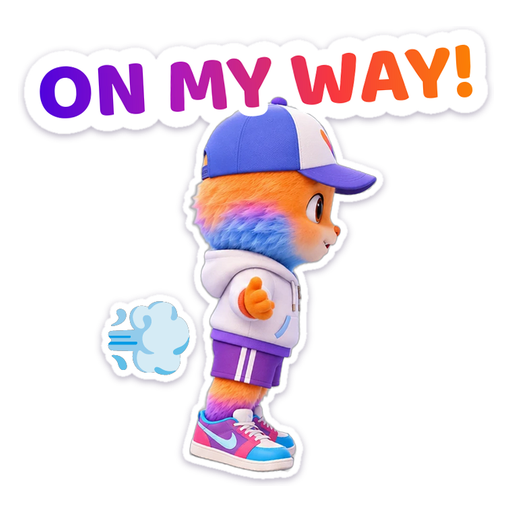
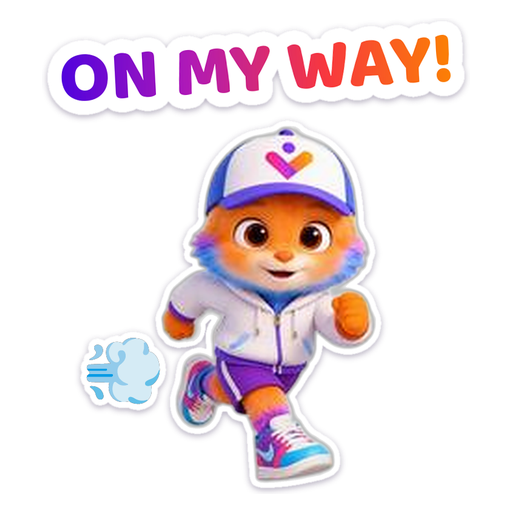
Rebuild sticker pack around new Acti poses
Laughing, thinking, waving, running and jumping poses (generated in
Canva from the Acti reference) replace the repeated arms-out pose. Each
of the 11 stickers now has its own pose; the rest wait on new poses
listed in poses/PROMPTS.md. tools/cut_poses.py cuts out new poses and
prefers full-size files over the current small previews.

Claude-Session: https://claude.ai/code/session_01L3N5nvGbZ4dARdWvKLXCxr

Changed region(s): [[0.0312, 0.0625, 0.9688, 0.9688], [0.9375, 0.1875, 0.9688, 0.2188]]

diff --git a/tools/make_stickers.py b/tools/make_stickers.py
@@ -213,18 +213,21 @@ EMOJI_TAGS = {
 
 
 def build():
+    """Each sticker uses a different pose. Stickers waiting on new poses are listed in poses/PROMPTS.md."""
     s = []
-    s.append(caption_top('yalla', 'YALLA!', 'يلا!', props=[('🔥', 110, 680, 360, -12)]))
-    s.append(caption_top('lets_go', "LET'S GO!", pose='threequarter', tilt=-6,
-                         props=[('⚡', 120, 220, 380, 12), ('⚡', 100, 680, 420, -10)]))
-    s.append(caption_top('whos_in', "WHO'S IN?", pose='front2', props=[('🙋', 120, 680, 400, -8)]))
+    s.append(caption_top('lol', 'LOL', pose='pose_lol', h=600, en_size=150, text_tilt=-4,
+                         props=[('😂', 120, 700, 330, -12)]))
+    s.append(caption_top('hmm', 'HMM…', pose='pose_hmm', h=600, en_size=140, props=[('🤔', 110, 700, 330, 8)]))
+    s.append(caption_top('hi', 'HI!', 'مرحبا', pose='pose_wave', h=580, en_size=150))
 
-    # On my way: side view running, speed lines
     b = Board()
-    b.put(character('side', 560, flip=True), 470, 520, rotate=-8)
-    b.put(emoji('💨', 150), 290, 600, 0)
-    b.put(text_layer('ON MY WAY!', 120, max_w=820), 450, 220, 3)
+    b.put(character('pose_run', 590), 470, 530)
+    b.put(emoji('💨', 150), 230, 640, 0)
+    b.put(text_layer('ON MY WAY!', 120, max_w=820), 450, 140, 3)
     s.append(('on_my_way', finish(b.img), emojis_for('on_my_way')))
+
+    s.append(caption_top('mabrook', 'MABROOK!', 'مبروك', pose='pose_jump', h=560, en_size=120,
+                         props=[('🎉', 120, 200, 420, -15), ('🎊', 110, 700, 430, 12)]))
 
     b = Board()
     b.put(character('back', 560), 450, 520)
@@ -232,36 +235,12 @@ def build():
     b.put(text_layer('BYE BYE!', 130), 450, 140, -3)
     s.append(('bye', finish(b.img), emojis_for('bye')))
 
-    # Hi: face peeking up from the bottom with a speech bubble
+    # Psst: face peeking with a speech bubble
     b = Board()
     b.put(face_badge(560), 450, 560)
-    b.put(label('HI!', 120, bg=PURPLE), 680, 220, 8)
-    b.put(emoji('👋', 130), 230, 250, 15)
-    s.append(('hi', finish(b.img), emojis_for('hi')))
-
-    s.append(caption_top('shukran', 'SHUKRAN!', 'شكراً', pose='front2', props=[('🧡', 110, 680, 380, 10)], en_size=120))
-    s.append(caption_top('mabrook', 'MABROOK!', 'مبروك', props=[('🎉', 120, 220, 360, -15), ('🎊', 110, 680, 380, 12)], en_size=120))
-    s.append(caption_top('good_morning', 'GOOD MORNING!', 'صباح الخير', pose='threequarter',
-                         props=[('☀', 120, 680, 360, 0)], en_size=100))
-    s.append(caption_top('game_on', 'GAME ON!', pose='front2', props=[('⚽', 120, 680, 700, 0), ('🏀', 100, 220, 700, 0)]))
-    s.append(caption_top('activated', 'ACTIVATED!', pose='front', props=[('⚡', 130, 220, 400, 15), ('⚡', 130, 680, 400, -15)], en_size=115))
-
-    # Save the date
-    b = Board()
-    b.put(character('front2', 520), 450, 560)
-    b.put(text_layer('SEE YOU THERE!', 100, max_w=820), 450, 130, 3)
-    b.put(label('16–17 JAN 2027', 62, bg=ORANGE), 450, 230, -3)
-    b.put(emoji('📅', 110), 680, 420, -10)
-    s.append(('save_the_date', finish(b.img), emojis_for('save_the_date')))
-
-    s.append(caption_top('habibi', 'HABIBI, COME!', 'حبيبي تعال', pose='threequarter', en_size=105,
-                         props=[('🤗', 110, 680, 420, 0)]))
-
-    b = Board()
-    b.put(character('side', 560), 470, 520)
-    b.put(emoji('🤔', 120), 300, 340, 0)
-    b.put(text_layer('HMM…', 130), 450, 140, -3)
-    s.append(('hmm', finish(b.img), emojis_for('hmm')))
+    b.put(label('PSST…', 100, bg=PURPLE), 650, 220, 8)
+    b.put(emoji('👀', 120), 230, 250, 10)
+    s.append(('psst', finish(b.img), ['👀', '🤫']))
 
     b = Board()
     b.put(face_badge(520), 450, 520)
@@ -270,8 +249,16 @@ def build():
     b.put(text_layer('LOVE IT!', 125), 450, 820, -3)
     s.append(('love_it', finish(b.img), emojis_for('love_it')))
 
-    s.append(caption_top('lol', 'LOL', pose='front', props=[('😂', 120, 680, 380, -10), ('😂', 90, 220, 420, 10)], en_size=150))
-    s.append(caption_top('weekend', 'WEEKEND PLANS?', pose='threequarter', en_size=95, props=[('🤸', 110, 680, 420, 0)]))
+    # Acti's open arms read as a welcome
+    s.append(caption_top('habibi', 'HABIBI, COME!', 'حبيبي تعال', pose='front', en_size=105,
+                         props=[('🤗', 110, 680, 420, 0)]))
+
+    b = Board()
+    b.put(character('threequarter', 520), 450, 560)
+    b.put(text_layer('SEE YOU THERE!', 100, max_w=820), 450, 130, 3)
+    b.put(label('16–17 JAN 2027', 62, bg=ORANGE), 450, 230, -3)
+    b.put(emoji('📅', 110), 680, 440, -10)
+    s.append(('save_the_date', finish(b.img), emojis_for('save_the_date')))
 
     # Brand sticker: logo + name
     b = Board()
@@ -297,8 +284,10 @@ def save_webp(img, path):
 
 
 def main():
-    (OUT / 'whatsapp').mkdir(parents=True, exist_ok=True)
-    (OUT / 'png').mkdir(parents=True, exist_ok=True)
+    for sub in ('whatsapp', 'png'):
+        (OUT / sub).mkdir(parents=True, exist_ok=True)
+        for old in (OUT / sub).glob('[0-9][0-9]_*'):
+            old.unlink()
     stickers = build()
     entries = []
     for i, (name, img, tags) in enumerate(stickers, 1):

diff --git a/tools/cut_poses.py b/tools/cut_poses.py
@@ -1,0 +1,54 @@
+"""Cuts the background off the generated Acti poses.
+
+    pip install rembg onnxruntime
+    python3 tools/cut_poses.py
+
+For each pose it uses the full-size file in poses/ (e.g. poses/lol.png or .jpg) when there is
+one, otherwise the small Canva preview in poses/preview/. Writes source/pose_<name>.png.
+"""
+
+from pathlib import Path
+
+import numpy as np
+from PIL import Image, ImageFilter
+from rembg import new_session, remove
+from scipy import ndimage as nd
+
+ROOT = Path(__file__).resolve().parent.parent
+POSES = ['lol', 'hmm', 'wave', 'run', 'jump']
+MIN_HEIGHT = 1200  # small previews are upscaled to this before cutting, for a smoother edge
+
+
+def find(name):
+    for ext in ('png', 'jpg', 'jpeg', 'webp'):
+        p = ROOT / 'poses' / f'{name}.{ext}'
+        if p.exists():
+            return p, False
+    return ROOT / 'poses' / 'preview' / f'{name}.jpg', True
+
+
+def main():
+    session = new_session('isnet-general-use')
+    for name in POSES:
+        path, is_preview = find(name)
+        img = Image.open(path).convert('RGB')
+        if img.height < MIN_HEIGHT:
+            k = MIN_HEIGHT / img.height
+            img = img.resize((round(img.width * k), MIN_HEIGHT), Image.LANCZOS)
+            img = img.filter(ImageFilter.UnsharpMask(radius=2, percent=60, threshold=2))
+        cut = remove(img, session=session)
+        a = np.array(cut)
+        m = a[..., 3] > 30
+        lab, n = nd.label(m)
+        if n:
+            sizes = nd.sum(m, lab, range(1, n + 1))
+            keep = nd.binary_dilation(lab == (np.argmax(sizes) + 1), iterations=2)
+            a[..., 3] = np.where(keep, a[..., 3], 0)
+        out = Image.fromarray(a)
+        out = out.crop(out.getbbox())
+        out.save(ROOT / 'source' / f'pose_{name}.png')
+        print(f'{name:6s} from {"preview" if is_preview else "full-size"} {path.name} -> {out.size}')
+
+
+if __name__ == '__main__':
+    main()

diff --git a/README.md b/README.md
@@ -1,6 +1,6 @@
 # Acti sticker pack
 
-WhatsApp stickers of **Acti**, the ActivateMe Fest mascot: 18 stickers, with English captions and some in Arabic too.
+WhatsApp stickers of **Acti**, the ActivateMe Fest mascot: 11 stickers, each with its own pose, with English captions and some in Arabic too. More are on the way, see `poses/PROMPTS.md`.
 
 ![Preview](preview.png)
 
@@ -30,4 +30,14 @@ python3 tools/make_stickers.py
 
 This rebuilds every sticker, the tray icon, `contents.json` and `preview.png`. WhatsApp allows up to 30 stickers per pack.
 
-`source/` holds the Acti cut-outs taken from the official character sheet. Fonts are Baloo 2 and Baloo Bhaijaan 2 (Arabic), both under the SIL Open Font License (`fonts/OFL.txt`).
+## New poses
+
+New Acti poses are generated with an image AI tool, using the prompts in `poses/PROMPTS.md`. To add or upgrade a pose:
+
+1. Save the full-size image in `poses/` with the pose's name, e.g. `poses/lol.png`.
+2. Run `python3 tools/cut_poses.py` to cut out the background (needs `pip install rembg onnxruntime`).
+3. Run `python3 tools/make_stickers.py`.
+
+The five new poses (`lol`, `hmm`, `wave`, `run`, `jump`) are currently built from small Canva previews in `poses/preview/`, so they look slightly soft up close. Drop the full-size downloads into `poses/` and rerun both scripts to sharpen them.
+
+`source/` holds the Acti cut-outs: the character sheet poses and the generated `pose_*.png` files. Fonts are Baloo 2 and Baloo Bhaijaan 2 (Arabic), both under the SIL Open Font License (`fonts/OFL.txt`).
